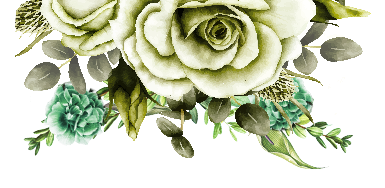
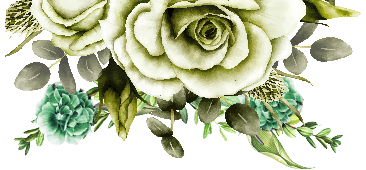
feat: img up

diff --git a/index.html b/index.html
@@ -105,23 +105,15 @@
         <section class="portada">
 
             <div class="d-md-flex">
-                <!-- Musica -->
-                <!-- Player de Música -->
-                <div class=" bottom-4 right-4">
-                    <button id="music-button" onclick="toggleMusic()"
-                        class="w-16 m-4 h-16 bg-green-100 text-white rounded-full flex items-center justify-center">
-                        🎵
-                    </button>
-                    <audio id="background-music" loop>
-                        <source src="media/Ruth_B__-_Dandelions__Audio_.mp3" type="audio/mpeg">
-                    </audio>
-                </div>
+
                 <!-- Imagen portada -->
                 <div class="portada-picture">
+
                     <picture>
-                        <source type="image/webp" srcset="images/GRACA2.jpeg" width="100%">
+                        <source type="image/webp" srcset="images/8.jpeg" width="100%" height="auto">
                         <source type="image/png" srcset="images/GRACA2.png">
                         <img src="images/GRACA2.png" alt="" loading="lazy">
+
                     </picture>
 
                     <img class="injectable divisor-vertical-portada" src="images/curva_portada_vertical.svg" alt="">
@@ -135,9 +127,16 @@
                     <div class="portada-container-2">
 
                         <picture>
+                            <source type="image/webp" srcset="images/flores__VERDE1.png" width="90%">
+                            <source type="image/png" srcset="images/GRACA2.png">
+                            <img src="images/GRACA2.png" alt="" loading="lazy">
+
+                        </picture>
+                        <!--
+                        <picture>
                             <source type="image/webp" srcset="images/flores__VERDE1.webp">
                             <source type="image/png" srcset="images/flores__VERDE1.png">
-                            <img class="adorno adorno-1" data-aos="fade-down" data-aos-delay="500"
+                            <img class="adorno adorno-1" data-aos="fade-down" data-aos-delay="100"
                                 data-aos-duration="1000" data-aos-once="false" src="images/flores_Grupo01_A.png" alt=""
                                 loading="lazy">
                         </picture>
@@ -145,11 +144,21 @@
                         <picture>
                             <source type="image/webp" srcset="images/flores_Grupo01_C.webp">
                             <source type="image/png" srcset="images/flores_Grupo01_C.png">
-                            <img class="adorno adorno-3" data-aos="fade-down" data-aos-delay="400"
+                            <img class="adorno adorno-3" data-aos="fade-down" data-aos-delay="100"
                                 data-aos-duration="1000" data-aos-once="false" src="images/flores_Grupo01_C.png" alt=""
-                                loading="lazy">
+                                loading="lazy">-->
                         </picture>
-
+                        <!-- Musica -->
+                        <!-- Player de Música -->
+                        <div class="bottom-4 right-4 ">
+                            <button id="music-button" onclick="toggleMusic()"
+                                class="w-12 ml-2 h-12 bg-lime-800 text-white rounded-full flex items-center justify-center">
+                                🎵
+                            </button>
+                            <audio id="background-music" loop>
+                                <source src="media/Ruth_B__-_Dandelions__Audio_.mp3" type="audio/mpeg">
+                            </audio>
+                        </div>
 
                         <div class="row d-flex justify-content-center align-items-center">
 
@@ -163,29 +172,31 @@
 
 
                                     <span class="fecha">
-                                        04.01.2025 </span>
-                                    <br><br>
-                                    <img class="injectable ampersand-portada" src="images/ampersand.svg" alt="">
+                                        04.01.2025
+
+                                    </span>
+
 
                                     <h1>Graça</h1>
                                     <!-- <span>&</span> -->
+                                    <img class="injectable ampersand-portada" src="images/ampersand.svg" width="100%"
+                                        alt="">
+
                                     <h1>Euripedes</h1>
                                 </div>
 
                                 <div class="box-frase-portada">
-                                    <p width="50%">
+                                    <p width="30%">
                                         <img class="injectable comilla-apertura" src="images/comilla-apertura.svg"
-                                            alt="" width="20%"> <br>
-                                        <br />
+                                            alt="" width="20%">
 
                                         As muitas águas não poderiam apagar este amor, nem os rios afogá-lo: ainda que
                                         alguém desse toda a fazenda de sua casa
                                         por este amor, certamente a desprezariam.
-                                        <br /><br />
 
-
+                                        <br>
                                         <strong p-10>Cantares 8:7
-                                        </strong><br />
+                                        </strong>
 
                                         <img class="injectable comilla-cierre" src="images/comilla-cierre.svg"
                                             width="20%" alt="">
@@ -199,10 +210,61 @@
                         </div>
 
                     </div>
-
+                    <!-- Divisor animado -->
+                    <div class="row">
+                        <svg class="editorial" xmlns="http://www.w3.org/2000/svg"
+                            xmlns:xlink="http://www.w3.org/1999/xlink" viewBox="0 24 150 28 "
+                            preserveAspectRatio="none">
+                            <defs>
+                                <path id="gentle-wave" d="M-160 44c30 0 
+                                                    58-18 88-18s
+                                                    58 18 88 18 
+                                                    58-18 88-18 
+                                                    58 18 88 18
+                                                    v44h-352z" />
+                            </defs>
+                            <g class="parallax1">
+                                <use xlink:href="#gentle-wave" x="50" y="3" fill="#eaf6f8" />
+                            </g>
+                            <g class="parallax2">
+                                <use xlink:href="#gentle-wave" x="50" y="0" fill="#598d5a" />
+                            </g>
+                            <g class="parallax3">
+                                <use xlink:href="#gentle-wave" x="50" y="9" fill="#dedede" />
+                            </g>
+                            <g class="parallax4">
+                                <use xlink:href="#gentle-wave" x="50" y="6" fill="#eaf6f8" />
+                            </g>
+                        </svg>
+                    </div>
                 </div>
 
-
+        <!-- Divisor animado -->
+        <div class="row">
+            <svg class="editorial" xmlns="http://www.w3.org/2000/svg" xmlns:xlink="http://www.w3.org/1999/xlink"
+                viewBox="0 24 150 28 " preserveAspectRatio="none">
+                <defs>
+                    <path id="gentle-wave" d="M-160 44c30 0 
+                                                    58-18 88-18s
+                                                    58 18 88 18 
+                                                    58-18 88-18 
+                                                    58 18 88 18
+                                                    v44h-352z" />
+                </defs>
+                <g class="parallax1">
+                    <use xlink:href="#gentle-wave" x="50" y="3" fill="#eaf6f8" />
+                </g>
+                <g class="parallax2">
+                    <use xlink:href="#gentle-wave" x="50" y="0" fill="#598d5a" />
+                </g>
+                <g class="parallax3">
+                    <use xlink:href="#gentle-wave" x="50" y="9" fill="#dedede" />
+                </g>
+                <g class="parallax4">
+                    <use xlink:href="#gentle-wave" x="50" y="6" fill="#eaf6f8" />
+                </g>
+            </svg>
+        </div>
             </div>
 
         </section>
@@ -210,6 +272,7 @@
 
         <!-- Cuenta Regresiva -->
         <section class="cuenta-regresiva">
+
             <div class="container">
                 <div class="row d-flex justify-content-center align-items-center">
                     <br><br>
@@ -420,7 +483,7 @@
                     <div>
                         <div class="polaroid">
 
-                            <img src="images/1.jpg" alt="">
+                            <img src="images/8.jpeg" alt="">
 
                         </div>
                     </div>
@@ -431,7 +494,7 @@
                     <div>
                         <div class="polaroid">
 
-                            <img src="images/2.jpg" alt="">
+                            <img src="images/10.jpeg" alt="">
 
                         </div>
                     </div>
@@ -442,7 +505,7 @@
                     <div>
                         <div class="polaroid">
 
-                            <img src="images/3.jpg" alt="">
+                            <img src="images/6.jpeg" alt="">
 
                         </div>
                     </div>
@@ -453,7 +516,7 @@
                     <div>
                         <div class="polaroid">
 
-                            <img src="images/4.jpg" alt="">
+                            <img src="images/GRACA4.png" alt="">
 
                         </div>
                     </div>
@@ -588,7 +651,7 @@
         <!-- Instagram-->
         <section class="instagram">
 
-            <!-- Divisor -->
+            <!-- Divisor 
             <img class="injectable divisor-superior-instagram" src="images/img_ondas05.svg" alt="">
 
             <div class="container">
@@ -614,11 +677,11 @@
                     <a target="_blank" href="https://www.instagram.com/" class="boton">Veja no Instagram</a>
 
                 </div>
-            </div>
+            </div>-->
 
-            <!-- Divisor -->
+            <!-- Divisor
             <img class="injectable divisor-inferior-instagram" src="images/img_ondas06.svg" alt="">
-
+        -->
         </section>
         <!-- Footer-->
         <section class="footer">

diff --git a/css/style.css b/css/style.css
@@ -443,7 +443,7 @@ section.portada .portada-container .portada-container-2 {
 }
 
 section.portada .portada-container .row.d-flex {
-  height: 690px;
+  /*height: 690px;*/
   margin: 0;
 }
 
@@ -661,7 +661,7 @@ section.portada .box-nombres-fecha-portada .ampersand-portada {
   position: absolute;
   z-index: -1;
   width: 180px;
-  top: 215px;
+  top: 15px;
 }
 
 section.portada .box-nombres-fecha-portada .ampersand-portada path {
@@ -677,8 +677,9 @@ section.portada .content-portada span.fecha {
   line-height: 25px;
   color: var(--color-fecha-portada);
   padding: 10px 30px 10px;
-  margin-bottom: 50px;
-  margin-top: 130px;
+  padding-top: 0;
+  /* margin-bottom: 50px;
+  /*margin-top: 130px;
   /* border: 2px solid;
   border-image-slice: 1;*/
   border-width: 1px;
@@ -715,11 +716,11 @@ section.portada .content-portada h1 {
 }
 
 section.portada .box-nombres-fecha-portada h1:nth-of-type(2) {
-  margin-top: -10px;
+  margin-top: 0;
 }
 
 section.portada .box-frase-portada {
-  margin-top: 25px;
+  margin-top: 0px;
 }
 
 section.portada .box-frase-portada p {
@@ -729,6 +730,7 @@ section.portada .box-frase-portada p {
   line-height: 30px;
   text-align: center;
   color: var(--color-frase-portada);
+  padding-right: 10%;
 }
 
 section.portada .box-frase-portada p svg {

diff --git a/css/responsive.css b/css/responsive.css
@@ -172,6 +172,28 @@
     -o-border-radius: 50%;
 }
 
+/* ocultat flor de mod desktop */
+.portada-container-2 .picture source{
+  display: none;
+}
+
+section.portada .portada-container .portada-container-2 img {
+    /* width: 100%; */
+    /* max-width: 610px; */
+    /* background: var(--color-fondo-secciones); */
+    /* padding-bottom: 60px; */
+    /* position: relative; */
+    display: none;
+}
+
+
+/*botao musica responsivo*/
+.bottom-4.right-4 {
+    width: 100%;
+    background-color: white;
+    padding-top:20px;
+    padding-bottom: 20px;
+}
   section.portada .box-frase-portada p {
     font-size: 20px;
     line-height: 25px;
